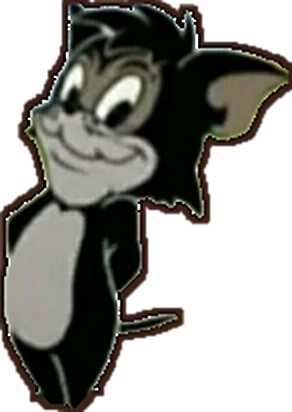
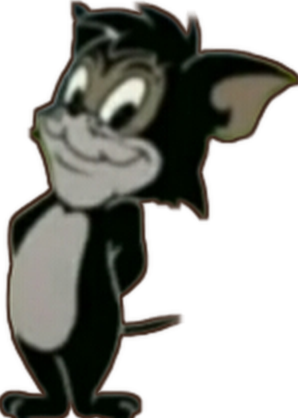
fix: escort sprite crop, emote cards, kill emote elite only

diff --git a/js/render.js b/js/render.js
@@ -1781,9 +1781,14 @@
         ctx.beginPath(); ctx.ellipse(em.x, em.y - (1 - k) * 14, 18, 14, 0, 0, TAU); ctx.fill(); ctx.stroke();
         const __eimg = em.img ? orbitImg(em.img) : null;
         if (__eimg) {
-          ctx.beginPath(); ctx.arc(em.x, em.y - (1 - k) * 14, 21, 0, TAU); ctx.fillStyle = '#FFF8E7'; ctx.fill(); ctx.strokeStyle = '#3A2418'; ctx.lineWidth = 2.5; ctx.stroke();
-          ctx.save(); ctx.beginPath(); ctx.arc(em.x, em.y - (1 - k) * 14, 18, 0, TAU); ctx.clip();
-          ctx.drawImage(__eimg, em.x - 18, em.y - (1 - k) * 14 - 18, 36, 36); ctx.restore();
+          const ey = em.y - (1 - k) * 14;
+          ctx.beginPath(); ctx.roundRect(em.x - 24, ey - 24, 48, 48, 10);
+          ctx.fillStyle = '#FFF8E7'; ctx.fill(); ctx.strokeStyle = '#3A2418'; ctx.lineWidth = 2.5; ctx.stroke();
+          ctx.save(); ctx.beginPath(); ctx.roundRect(em.x - 21, ey - 21, 42, 42, 8); ctx.clip();
+          const iw = __eimg.naturalWidth || __eimg.width, ih = __eimg.naturalHeight || __eimg.height;
+          const sc = Math.max(42 / iw, 42 / ih);
+          ctx.drawImage(__eimg, em.x - iw * sc / 2, ey - ih * sc / 2, iw * sc, ih * sc);
+          ctx.restore();
         } else {
           ctx.fillStyle = '#3A2418'; ctx.font = '16px "Microsoft YaHei",sans-serif'; ctx.textAlign = 'center'; ctx.textBaseline = 'middle';
           ctx.fillText(em.text || '', em.x, em.y - (1 - k) * 14 + 1);

diff --git a/js/combat.js b/js/combat.js
@@ -83,7 +83,7 @@
     if (e.dead) return;
     e.dead = true; /* __emote */
     if (g.boss === e) g.boss = null;
-    if (g.player) { g.emotes = g.emotes || []; g.emotes.push({ x: g.player.x, y: g.player.y - g.player.r * 1.6, img: 'assets/emotes/' + (g.rng() < 0.5 ? 'smug' : (g.rng() < 0.5 ? 'face' : 'catstand')), life: 0.9, max: 0.9 }); }
+    if (g.player && (e.elite || e.boss)) { g.emotes = g.emotes || []; g.emotes.push({ x: g.player.x, y: g.player.y - g.player.r * 1.6, img: 'assets/emotes/' + (g.rng() < 0.5 ? 'smug' : (g.rng() < 0.5 ? 'face' : 'catstand')), life: 0.9, max: 0.9 }); }
     if (e.def && e.def.sprite) g.effects.push({ kind: 'ghost', sprite: e.def.sprite, x: e.x, y: e.y, r: e.r, life: 0.32, max: 0.32 });
     if (e.elite && e.mod === 'split') {
       for (let i = 0; i < 2; i++) {

diff --git a/tools/escort_fix.py b/tools/escort_fix.py
@@ -1,0 +1,9 @@
+from PIL import Image, ImageFilter
+im=Image.open('assets/enemies/escort.png').convert('RGBA')
+w,h=im.size
+im=im.resize((w*2,h*2),Image.LANCZOS)
+a=im.split()[3]
+grow=a.filter(ImageFilter.MaxFilter(7)).filter(ImageFilter.GaussianBlur(0.6))
+outline=Image.new('RGBA',im.size,(58,36,24,240)); outline.putalpha(grow)
+Image.alpha_composite(outline,im).save('assets/enemies/escort_big.png')
+print('ok', im.size)
